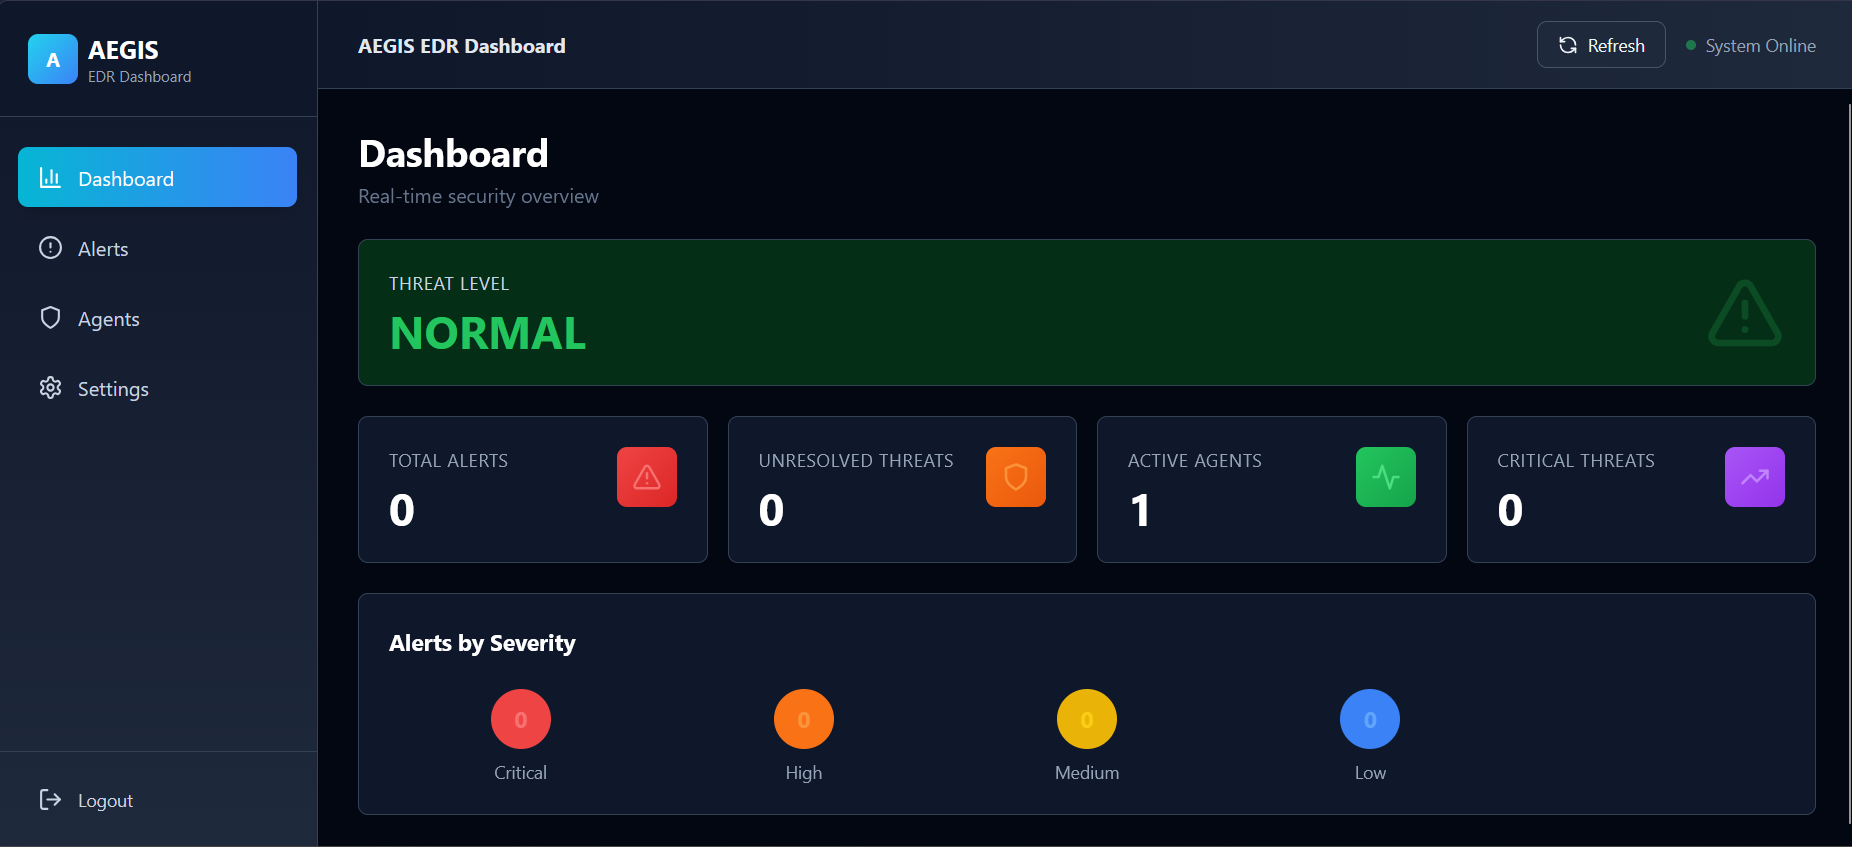
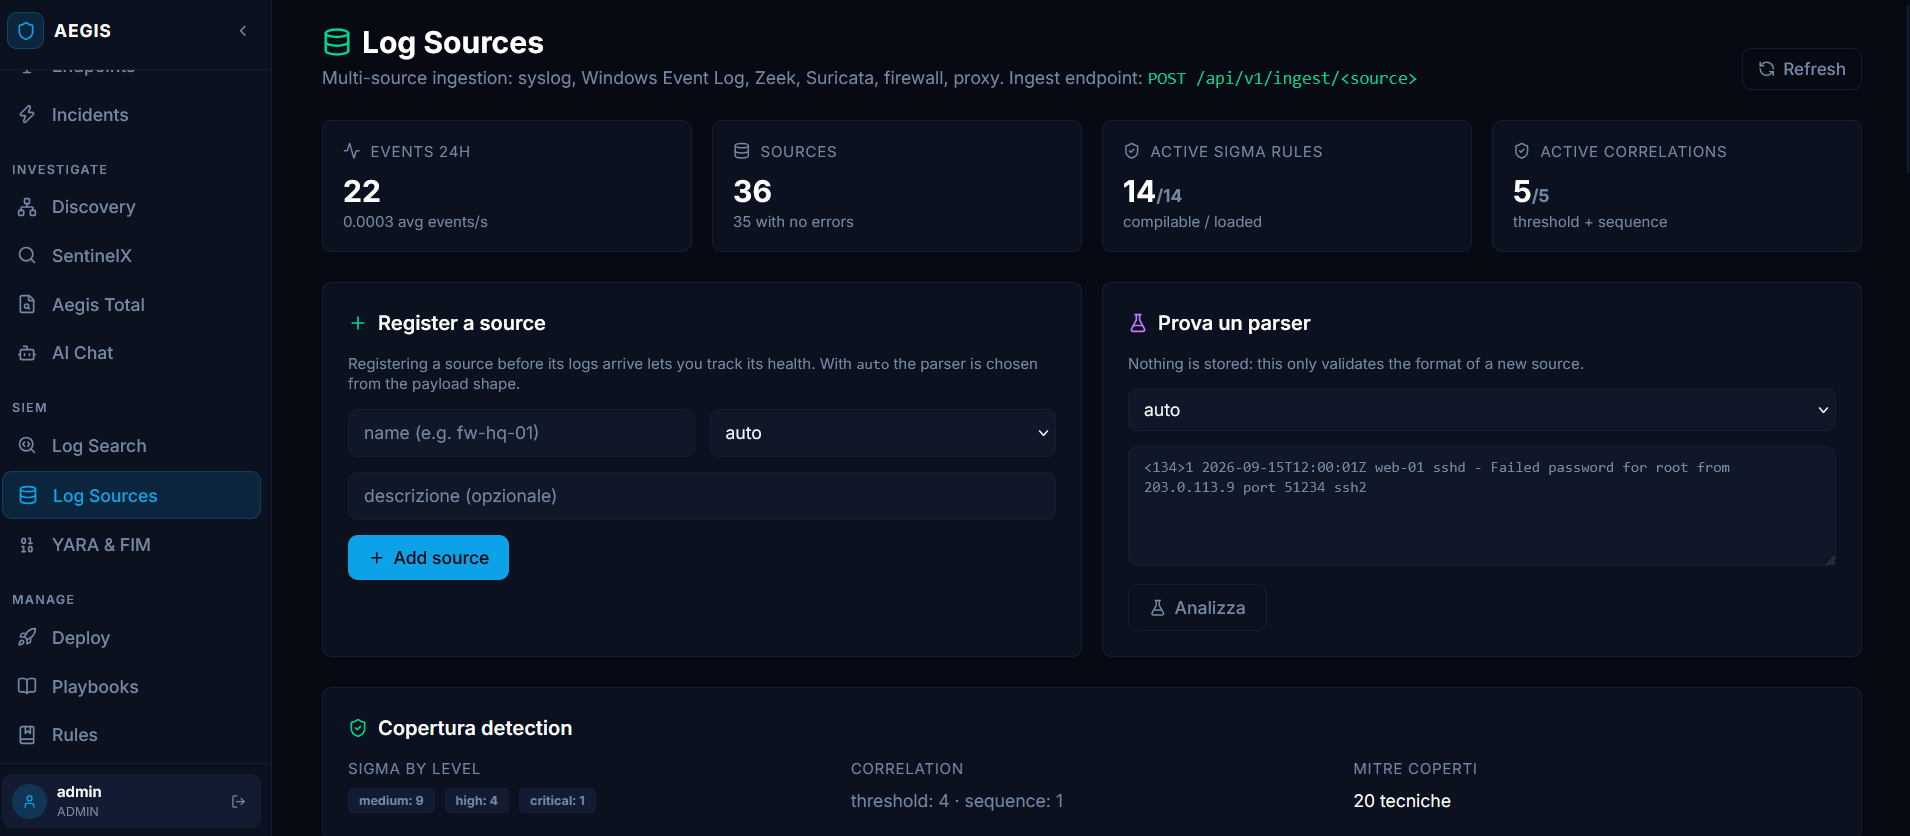
Add Aegis v4.0.0 to featured projects

diff --git a/src/components/Projects.jsx b/src/components/Projects.jsx
@@ -30,10 +30,10 @@ const featuredProjects = [
     ],
   },
   {
-    title: "🛡 Aegis — XDR/SIEM Ecosystem",
+    title: "🛡 Aegis — XDR/SIEM Ecosystem v4.0.0",
     description:
-      "Production-grade XDR/SIEM platform with 5 microservices: Java/Spring Boot ingestion gateway (syslog UDP + HTTP), Python/FastAPI correlation engine with 200+ threat signatures, cross-platform Java/JNA endpoint agent, host telemetry agent, and React dashboard with 12 views. Features SOAR playbook engine, AI-powered analysis (Ollama), anomaly detection, VaultX encrypted notes, and full monitoring stack.",
-    technologies: "Java + Spring Boot, Python + FastAPI, React, PostgreSQL, Redis, Docker, Caddy",
+      "End-to-end detection and response platform, installed from a clone with one command: Java/Spring Boot ingestion gateway (syslog UDP + HTTP, 12 log parsers), Python/FastAPI correlation engine, React dashboard, plus two endpoint agents — a Java/JNA EDR sensor (process lineage, file-integrity monitoring, on-demand YARA, persistence snapshots, remote response) and a host telemetry agent (metrics, network flows, users, eBPF on Linux). Detection is deterministic end to end: 15 static rules, 14 community Sigma rules run through an in-house compiler, 5 correlation rules, 111 named attack-tool signatures, IP reputation and statistical anomaly detection, with every alert mapped to MITRE ATT&CK. SIEM side: OCSF-aligned event schema with deduplication and sequence-gap detection, search across 24 filterable fields, configurable retention and OCSF export. SOAR playbooks with dry-run preview, per-action risk/reversibility metadata and rollback for the reversible ones; response actions include process-tree kill, quarantine and persistence removal. Security engineering: mTLS enrollment on an internal PKI, RBAC, full audit log. 574 backend tests, end-to-end API smoke, ~500 MB RAM with AI off.",
+    technologies: "Java + Spring Boot, Python + FastAPI, React, PostgreSQL, Redis, Docker, Caddy, Sigma, YARA",
     images: [
       { src: "/img/graph.png", alt: "Aegis graph" },
       { src: "/img/mitre.png", alt: "Aegis Mitre ATT&CK section" },
